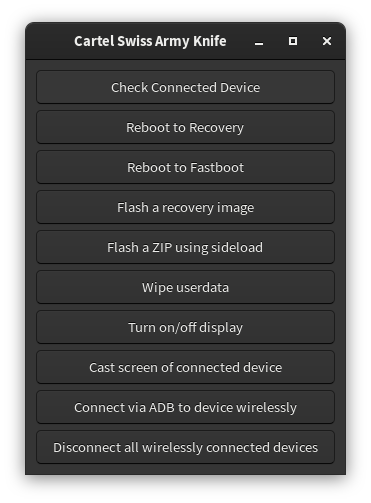
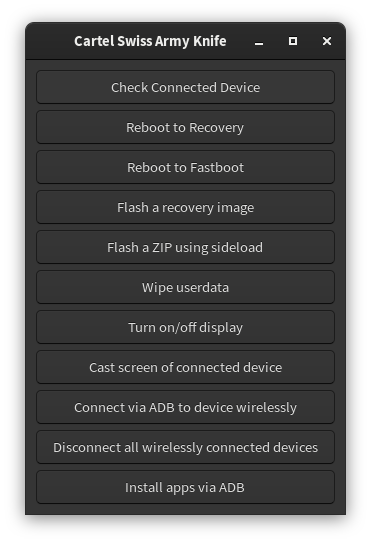
csak: Update readme and screenshot to reflect new feature

diff --git a/README.md b/README.md
@@ -39,7 +39,7 @@ python3 csak/main.py
 - Connect to ADB via WiFi
 - Disconnect all WiFi ADB connected devices 
 - Now screencast your phone's display onto your laptop easily
-
+- Install apps via ADB
 
 ### Screenshot:
 ![CSAK](/assets/screenshot.png)
